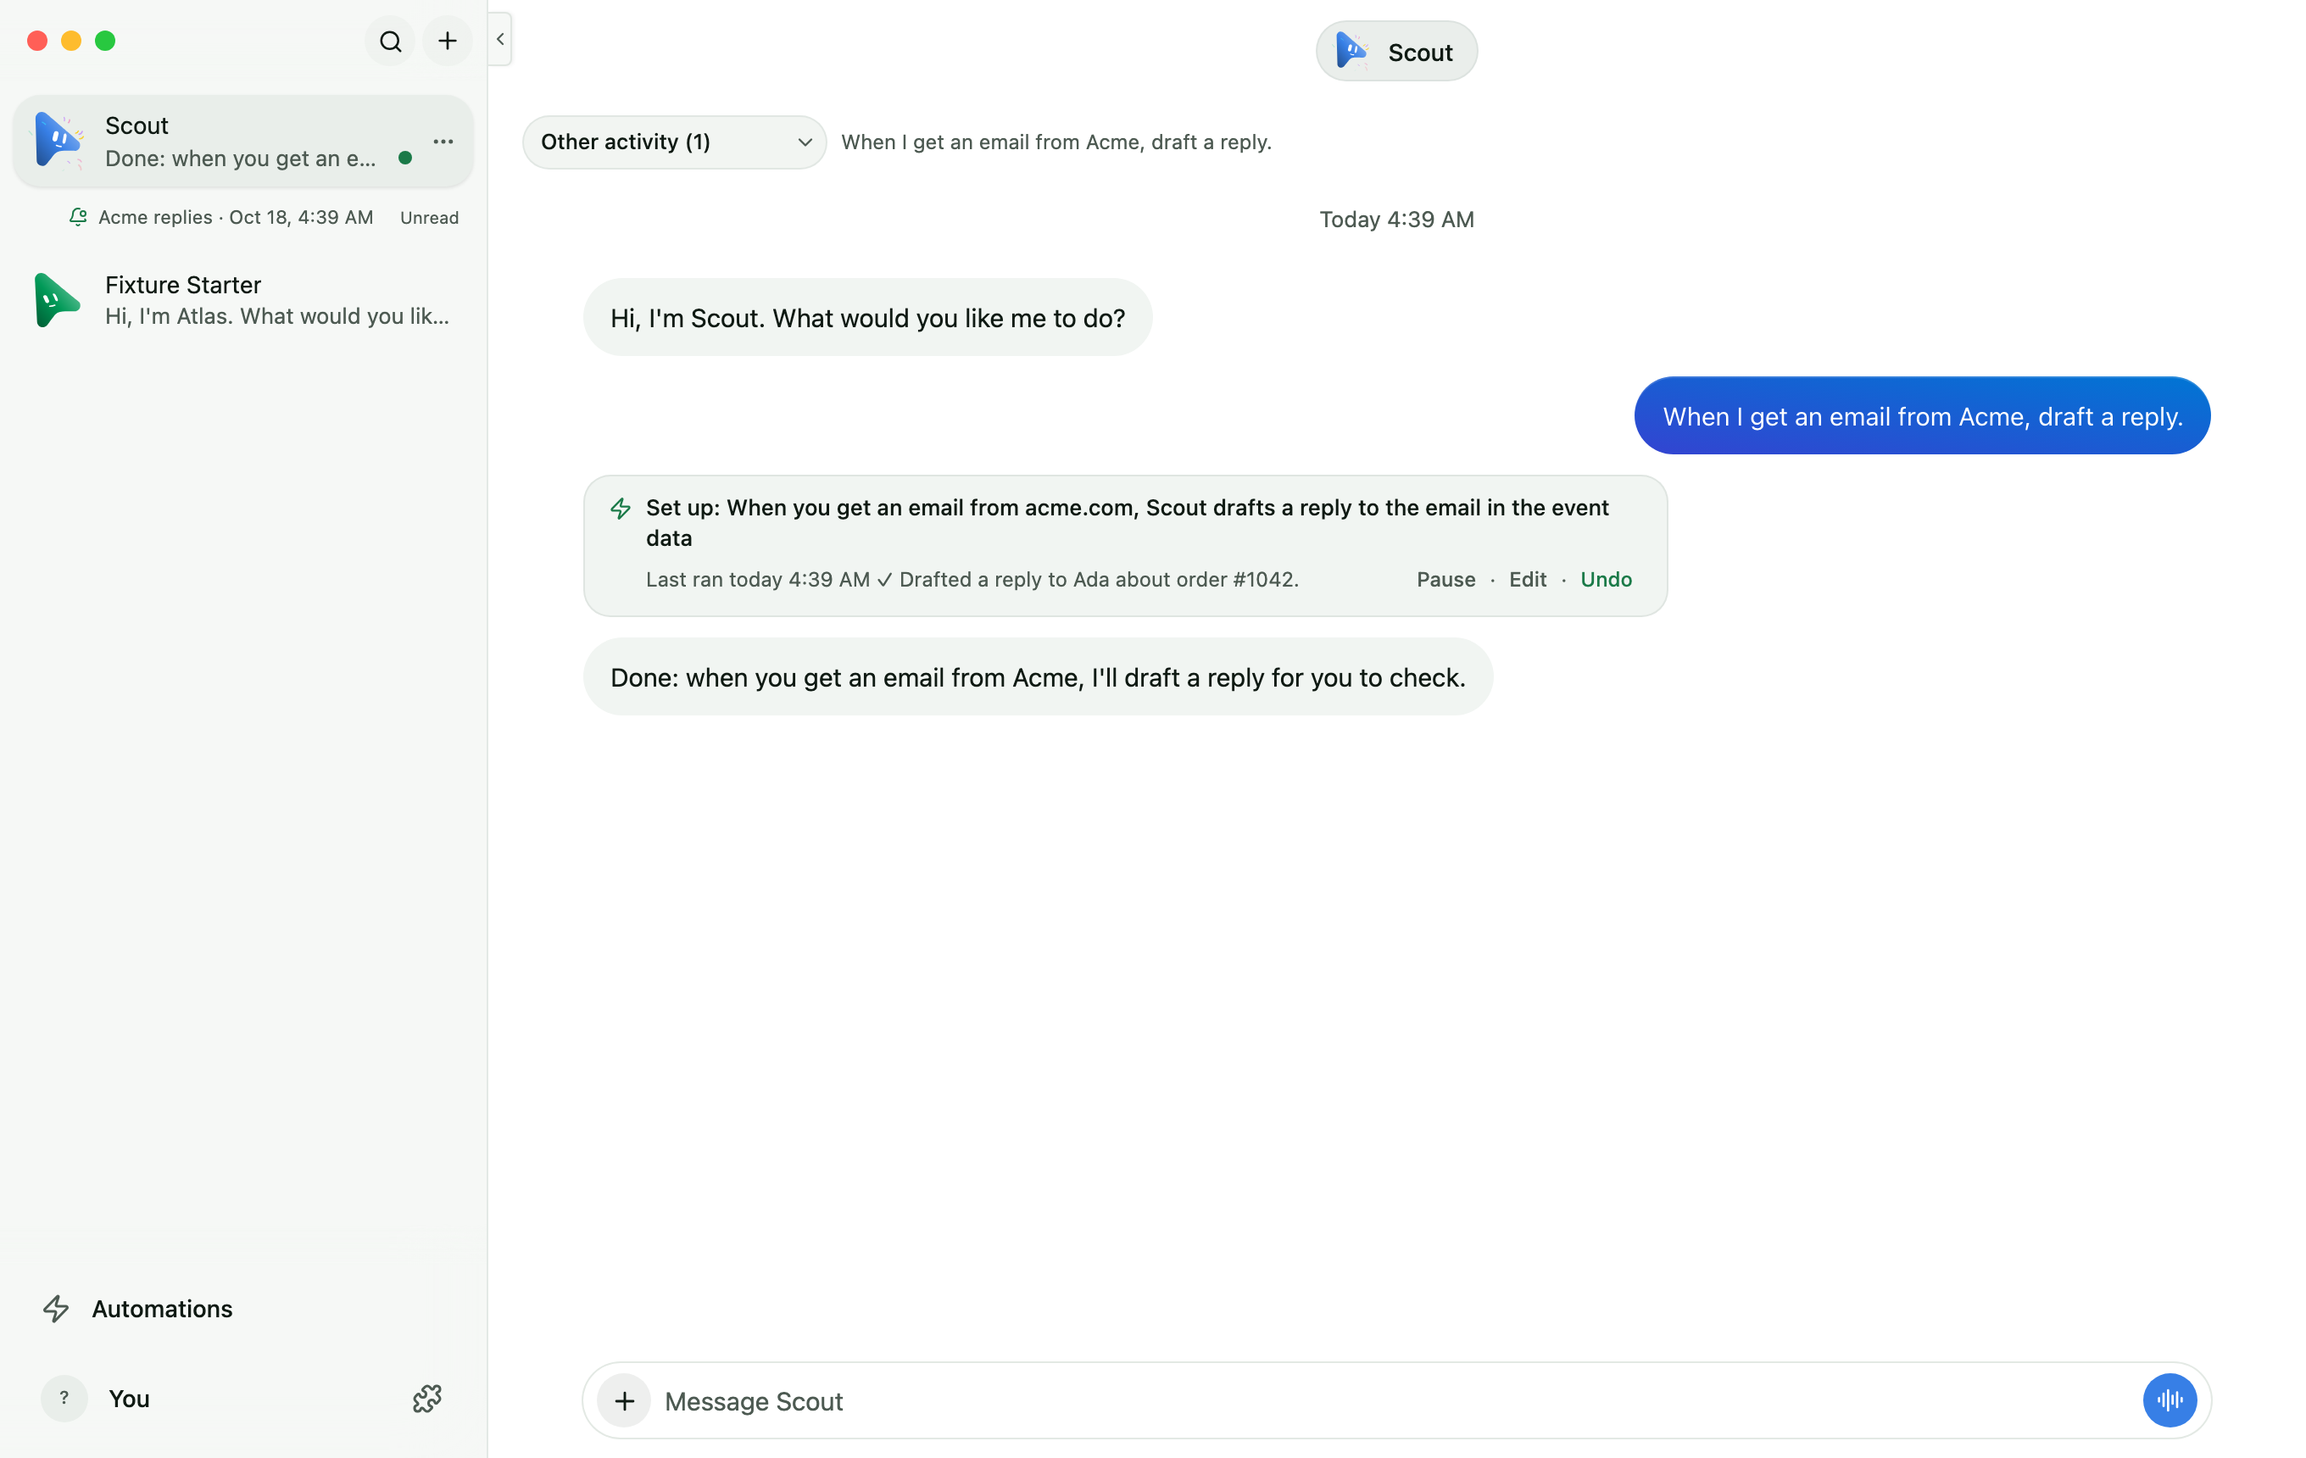
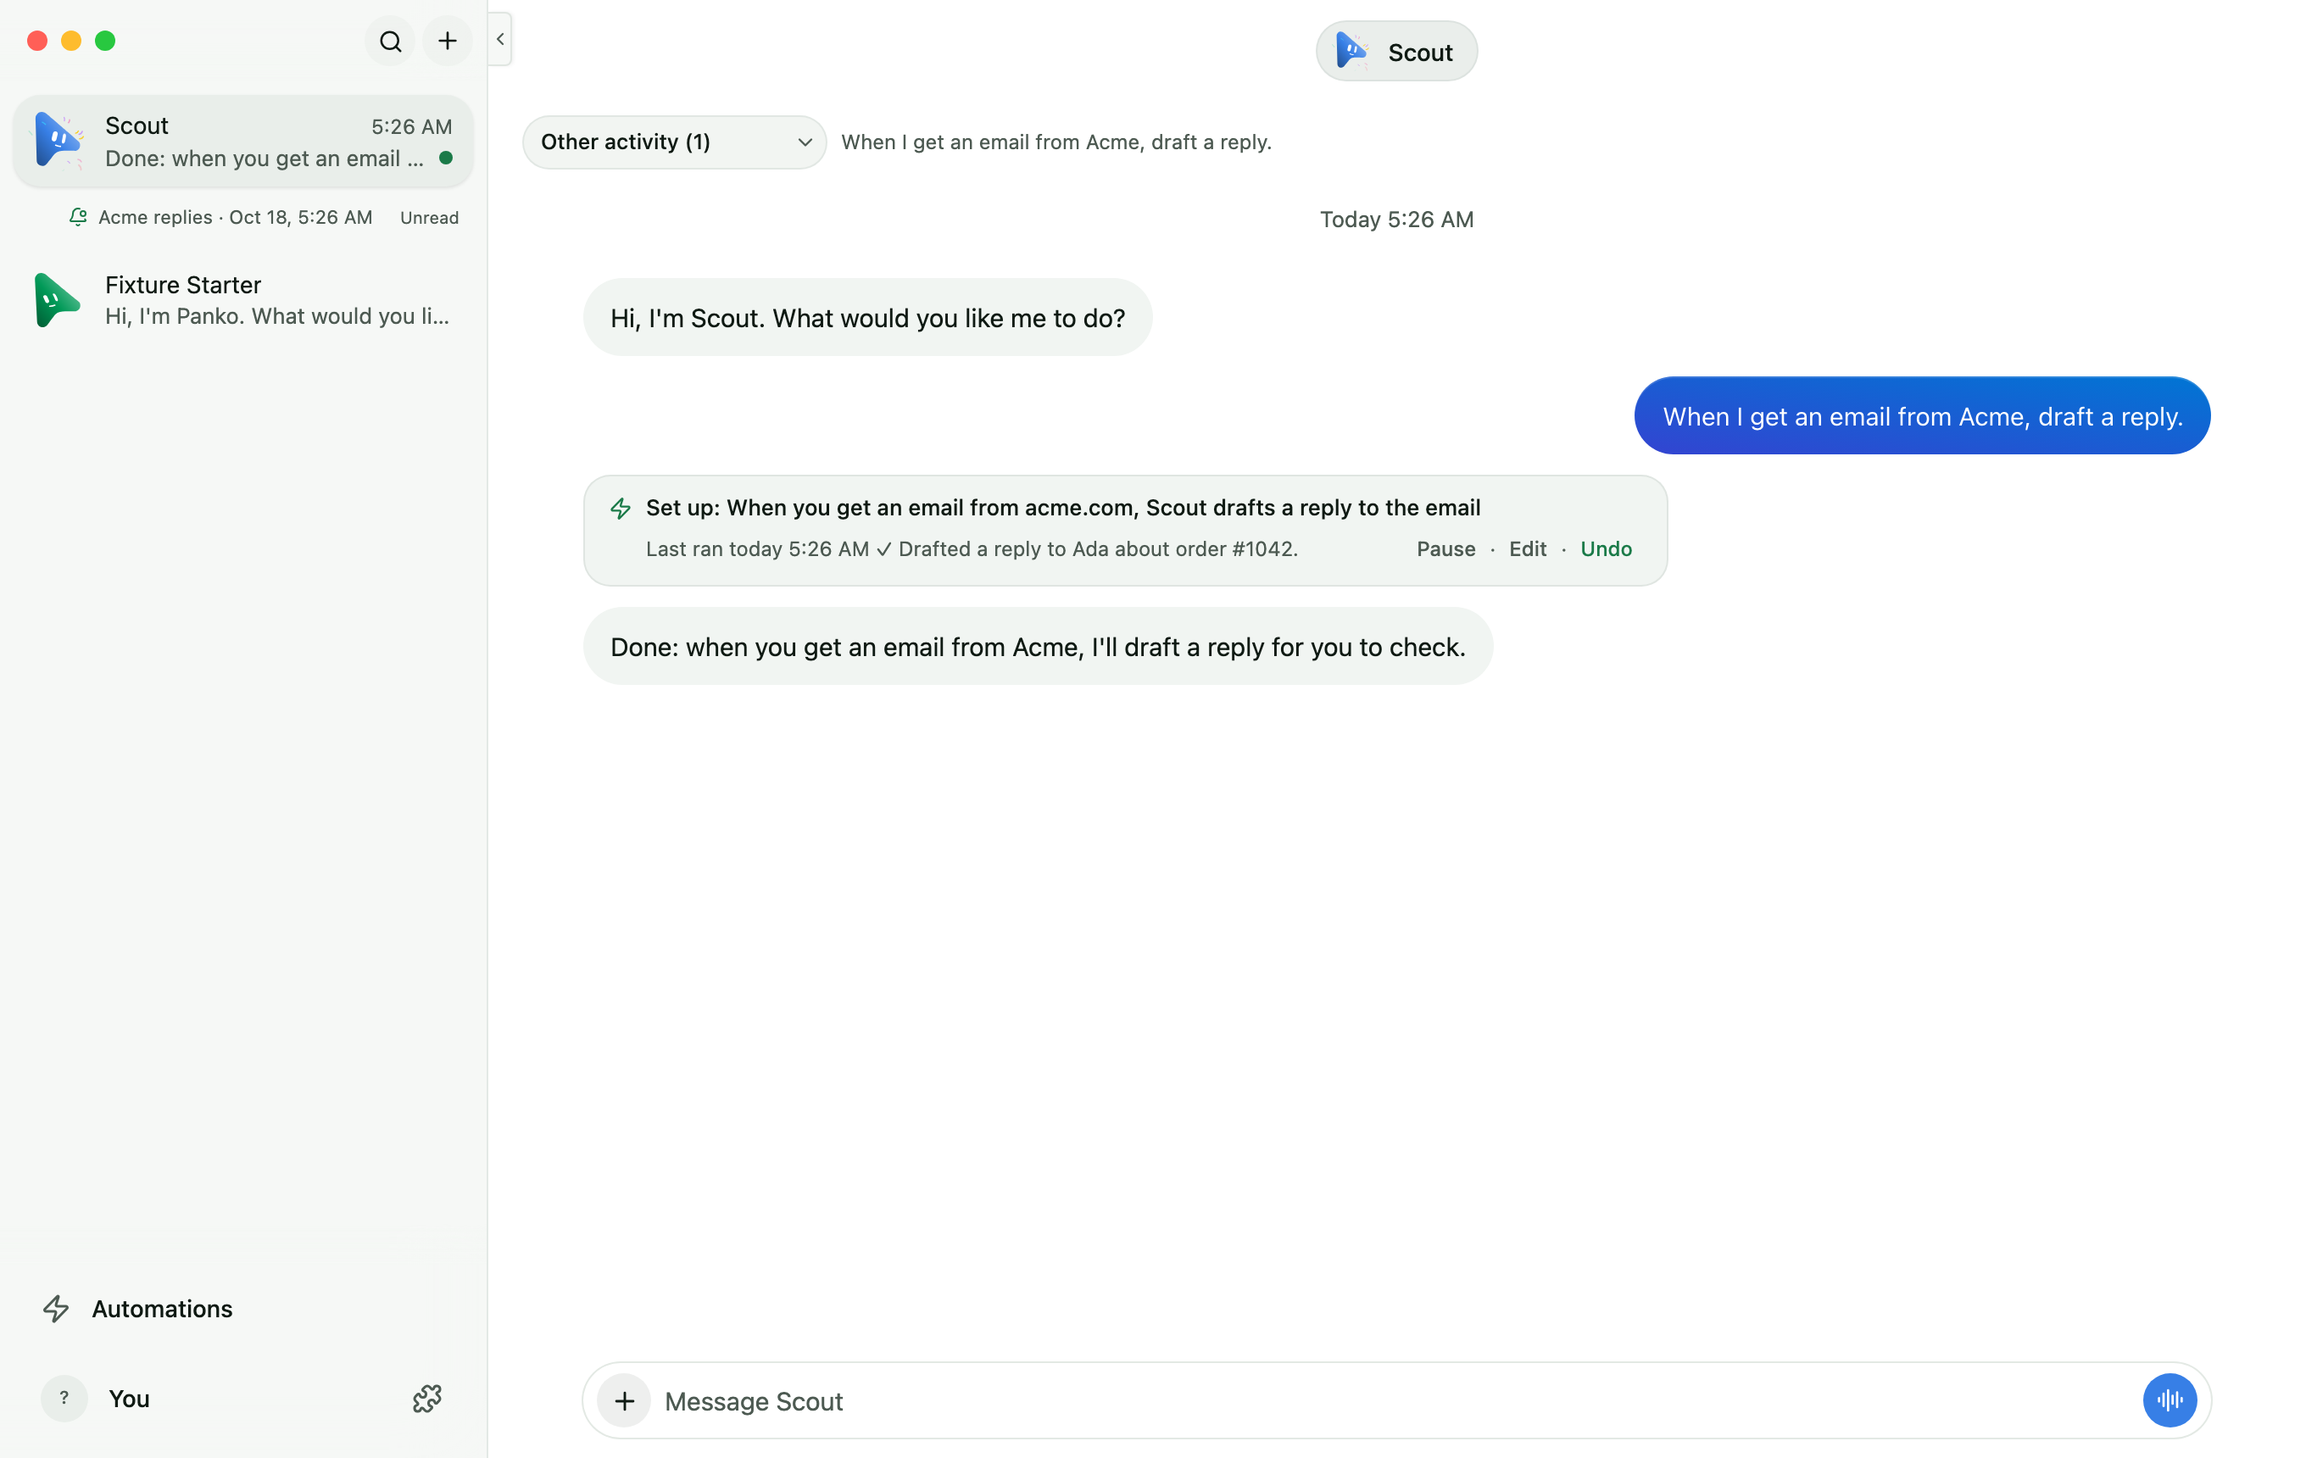
Automations read in the person's words, never "the event data"
The prompt and create_trigger now ask for instructions as a plain action a
person would say ("draft a reply"), never "event data", "payload", "webhook"
or "trigger"; each run's prompt says where its event is instead. The
sentence drops such a trailing phrase, so existing automations read well too.

diff --git a/server/system-prompt.ts b/server/system-prompt.ts
@@ -177,7 +177,7 @@ export const WIDGET_PROMPT =
 const APPLIED_RESULT_PROMPT =
   " Follow the tool result: a change you ask for (your skills, profile or model, or as a Chief a teammate's) applies immediately at every access level and the person sees it with an Undo; then continue the requested work without asking for another confirmation. Only a pending result (a Cloud conversation its owner did not drive) waits for the owner: then end the turn. Never claim success before an applied result, and report failures honestly. Full Access does not grant another bot broader permissions.";
 export const TRIGGER_PROMPT =
-  " When the person describes something that should happen on its own — on a schedule (\"every morning send me…\", \"each Friday…\"), whenever something happens in one of their apps (\"whenever I get an email from Acme…\", \"when someone posts in #sales…\") or when another app calls a link — set it up with create_trigger in this turn. Do not ask for confirmation and do not announce it first: it applies at once and the person sees a card with Edit, Pause and Undo. Ask one short question only when something required is missing and cannot be inferred, such as which of two Gmail accounts. For anything that happens in an app, call list_trigger_events and use when=app_event rather than a schedule that keeps checking; put who or what it is about in filter (Gmail filters at the source), and judgement (\"if it is not about an order, stop\") in the instructions. If the app is not connected yet, ask the person to connect it the usual way (a Connect card when you have connected-app tools), then create the trigger once it is. Write the instructions as complete steps for a future run that will not see this conversation. A request to do something once, now, is not a trigger. Then say in one sentence what will happen; to the person these are \"automations\", never triggers or webhooks. Use list_triggers and manage_trigger to review, change, pause, test or delete triggers. Keep run_on omitted or maus to use the bot's current model and configured computer, including its VPS; box runs on the bot's cloud computer, only when the person wants that. Convert calendar requests such as the first or last day of each month or the second Monday to a five-field cron expression with an explicit IANA timezone; use interval for elapsed every-N-minutes work. Never replace a calendar rule with daily AI date checking or an approximate weekly schedule; clarify ambiguous or unsupported requests.";
+  " When the person describes something that should happen on its own — on a schedule (\"every morning send me…\", \"each Friday…\"), whenever something happens in one of their apps (\"whenever I get an email from Acme…\", \"when someone posts in #sales…\") or when another app calls a link — set it up with create_trigger in this turn. Do not ask for confirmation and do not announce it first: it applies at once and the person sees a card with Edit, Pause and Undo. Ask one short question only when something required is missing and cannot be inferred, such as which of two Gmail accounts. For anything that happens in an app, call list_trigger_events and use when=app_event rather than a schedule that keeps checking; put who or what it is about in filter (Gmail filters at the source), and judgement (\"if it is not about an order, stop\") in the instructions. If the app is not connected yet, ask the person to connect it the usual way (a Connect card when you have connected-app tools), then create the trigger once it is. Write the instructions as complete steps for a future run that will not see this conversation, in the plain words the person would use (\"draft a reply\", \"add the lead to the sheet\"): never \"event data\", \"payload\", \"webhook\" or \"trigger\", since the person reads them as the automation's sentence and each run is already told where its event is. A request to do something once, now, is not a trigger. Then say in one sentence what will happen; to the person these are \"automations\", never triggers or webhooks. Use list_triggers and manage_trigger to review, change, pause, test or delete triggers. Keep run_on omitted or maus to use the bot's current model and configured computer, including its VPS; box runs on the bot's cloud computer, only when the person wants that. Convert calendar requests such as the first or last day of each month or the second Monday to a five-field cron expression with an explicit IANA timezone; use interval for elapsed every-N-minutes work. Never replace a calendar rule with daily AI date checking or an approximate weekly schedule; clarify ambiguous or unsupported requests.";
 export const ROUTINE_EXECUTION_PROMPT =
   " Execute this routine now: use coordinate_bots for required handoffs rather than merely announcing that you will wait; after an accepted hand-off, end this turn for automatic resumption, and report a concrete blocker if no handoff is possible.";
 export const LEARN_PROMPT =

diff --git a/server/drivers/agents-catalog.ts b/server/drivers/agents-catalog.ts
@@ -130,7 +130,7 @@ const TRIGGER_FIELDS_SCHEMA = {
     type: "string",
     minLength: 1,
     maxLength: 20_000,
-    description: "Complete steps for each run, which does NOT see this conversation. Put judgement here, e.g. \"if it is not about an order, stop\".",
+    description: "Complete steps for each run, which does NOT see this conversation, in the person's plain words (\"draft a reply\"), never \"event data\", \"payload\", \"webhook\" or \"trigger\". Put judgement here, e.g. \"if it is not about an order, stop\".",
   },
   schedule: { ...ROUTINE_SCHEDULE_SCHEMA, description: `Only for when=schedule. ${ROUTINE_SCHEDULE_SCHEMA.description}` },
   webhook_event_types: {
@@ -666,7 +666,7 @@ const TOOL_DEFINITIONS = [
   {
     name: "create_trigger",
     description:
-      "Set up work that happens on its own: when <something happens>, a bot does <instructions>. Call it in this turn whenever the person describes recurring or event-based work (\"every morning send me…\", \"whenever I get an email from…\", \"when another app calls…\"); never ask for confirmation first. It applies at once and the person sees a card with Edit, Pause and Undo. when=schedule runs on a time rule (call list_triggers first for relative dates: it has the authoritative time and timezone); when=app_event runs when something happens in a connected app (list_trigger_events first; prefer it to a schedule that keeps checking); when=webhook gives an address another app sends to (the person copies it from the card; you never see its secret). To the person these are automations. Something to do once, now, is not a trigger. for_bot_id: a trigger for ANOTHER bot in your section, which keeps that bot's engine and permissions.",
+      "Set up work that happens on its own: when <something happens>, a bot does <instructions>. Call it in this turn whenever the person describes recurring or event-based work (\"every morning send me…\", \"whenever I get an email from…\", \"when another app calls…\"); never ask for confirmation first. It applies at once and the person sees a card with Edit, Pause and Undo. when=schedule runs on a time rule (call list_triggers first for relative dates: it has the authoritative time and timezone); when=app_event runs when something happens in a connected app (list_trigger_events first; prefer it to a schedule that keeps checking); when=webhook gives an address another app sends to (the person copies it from the card; you never see its secret). To the person these are automations: write name and instructions as they would say them. Something to do once, now, is not a trigger. for_bot_id: a trigger for ANOTHER bot in your section, which keeps that bot's engine and permissions.",
     inputSchema: {
       type: "object",
       additionalProperties: false,

diff --git a/src/lib/app-automations.test.ts b/src/lib/app-automations.test.ts
@@ -31,6 +31,16 @@ describe("an app-event automation in plain words", () => {
       .toBe("When “Deal stage updated” happens in Hubspot, Ops posts a kickoff note");
   });
 
+  it("leaves technical words a bot put at the end of its instructions out of the sentence", () => {
+    expect(automationSentence(automation({ prompt: "Draft a reply to the email in the event data. Do not send it." }), "Scout"))
+      .toBe("When you get an email from Acme, Scout drafts a reply to the email");
+    expect(automationSentence(automation({ prompt: "Add the lead from the webhook payload" }), "Scout")).toBe("When you get an email from Acme, Scout adds the lead");
+    expect(automationSentence(automation({ prompt: "Log the order in the payload" }), "Scout")).toBe("When you get an email from Acme, Scout logs the order");
+    expect(automationSentence(automation({ prompt: "Summarize the event for me" }), "Scout")).toBe("When you get an email from Acme, Scout summarizes the event for you");
+    const [hook] = automationsFrom({ routines: [], webhooks: [{ id: "h", endpointId: "wh_1", name: "Sales form", prompt: "Draft a follow-up from the webhook data.", botId: "scout", runOn: "maus", enabled: true, createdAt: 0, updatedAt: 0, deliveryCount: 0 }], runs: [] });
+    expect(automationSentence(hook!, "Scout")).toBe("When your sales form sends something, Scout drafts a follow-up");
+  });
+
   it("says it checks every 15 minutes and waits for the first email, then shows the last run", () => {
     expect(statusLine(automation(), NOW)).toBe("Working · checks every 15 minutes · waiting for the first email");
     expect(statusLine(automation({ lastEventAt: NOW - 60_000 }, [run("completed", NOW - 60_000)]), NOW)).toMatch(/^Working · last ran today .+ · checks every 15 minutes$/);

diff --git a/server/app-triggers.test.ts b/server/app-triggers.test.ts
@@ -300,3 +300,18 @@ describe("createAppTriggerHost", () => {
     expect(broker.harness.composio.instances.size).toBe(0);
   });
 });
+
+describe("instructions in the person's words", () => {
+  it("tells the bot to write plain actions, and tells each run where its event is", async () => {
+    const { TRIGGER_PROMPT } = await import("./system-prompt.ts");
+    const { availableTools, catalogProfileFromEnv } = await import("./drivers/agents-catalog.ts");
+    const { eventPrompt } = await import("./app-events.ts");
+    expect(TRIGGER_PROMPT).toContain('in the plain words the person would use ("draft a reply", "add the lead to the sheet"): never "event data", "payload", "webhook" or "trigger"');
+    const create = availableTools(catalogProfileFromEnv({})).find((tool) => tool.name === "create_trigger")!;
+    expect(create.description).toContain("write name and instructions as they would say them");
+    expect((create.inputSchema.properties as Record<string, { description?: string }>).instructions!.description)
+      .toContain("in the person's plain words (\"draft a reply\"), never \"event data\", \"payload\", \"webhook\" or \"trigger\"");
+    expect(eventPrompt("Draft a reply.", "[UNTRUSTED APP EVENT DATA]\n{}\n[/UNTRUSTED APP EVENT DATA]"))
+      .toContain("The email, message or record these instructions mean is in the UNTRUSTED APP EVENT DATA below.");
+  });
+});

diff --git a/src/lib/automations.ts b/src/lib/automations.ts
@@ -151,8 +151,11 @@ function thirdPerson(verb: string): string {
 }
 
 /** What the bot does, as a short phrase: the first clause of its instructions, addressed to the person. */
+/** Words a bot may leave at the end of its instructions that a person never says: "…a reply to the email in the event data". */
+const TECHNICAL_TAIL = /\s+(?:in|from|of|inside)\s+(?:the\s+)?(?:(?:incoming|webhook|trigger|app)\s+)?(?:event(?:'s)?(?:\s+(?:data|payload|body))?|payload|webhook(?:\s+(?:data|body|payload|call))?|trigger(?:\s+(?:data|payload))?)$/i;
+
 export function doesPhrase(instructions: string, english = activeLocale().startsWith("en")): string {
-  let clause = instructions.replace(/^\s*please\s+/i, "").split(/[.:;!?\n]|\s[—–-]\s/)[0]?.trim() ?? "";
+  let clause = instructions.replace(/^\s*please\s+/i, "").split(/[.:;!?\n]|\s[—–-]\s/)[0]?.trim().replace(TECHNICAL_TAIL, "") ?? "";
   if (!clause) return t("automations.does.default");
   if (english) {
     clause = clause.replace(/\bme\b/gi, "you").replace(/\bmy\b/gi, "your").replace(/\bmine\b/gi, "yours").replace(/\bI\b/g, "you");

diff --git a/server/app-events.ui.e2e.test.ts b/server/app-events.ui.e2e.test.ts
@@ -75,7 +75,8 @@ it.skipIf(!ready)("sets one up from chat and from + New, shows its sentence and 
   if (await skipTour.isVisible().catch(() => false)) await skipTour.click();
   const card = page.locator("[data-trigger-card]").first();
   await card.waitFor({ timeout: 30_000 });
-  await expect.poll(() => card.textContent(), { timeout: 15_000 }).toContain("When you get an email from acme.com, Scout drafts a reply to the email in the event data");
+  await expect.poll(() => card.textContent(), { timeout: 15_000 }).toContain("When you get an email from acme.com, Scout drafts a reply to the email");
+  expect(await card.textContent()).not.toContain("event data");
   expect(await card.textContent()).toContain("Checks every 15 minutes · waiting for the first email");
   await shot("chat-card-set-up.png");
 

diff --git a/server/app-events.ts b/server/app-events.ts
@@ -73,7 +73,7 @@ export function eventPrompt(instructions: string, block: string): string {
     "[USER-CONFIGURED TRIGGER INSTRUCTIONS]",
     configured,
     "[/USER-CONFIGURED TRIGGER INSTRUCTIONS]",
-    "Each UNTRUSTED APP EVENT DATA block below is one event; handle each one on its own.",
+    "The email, message or record these instructions mean is in the UNTRUSTED APP EVENT DATA below. Each block is one event; handle each one on its own.",
     "",
     block,
   ].join("\n");
